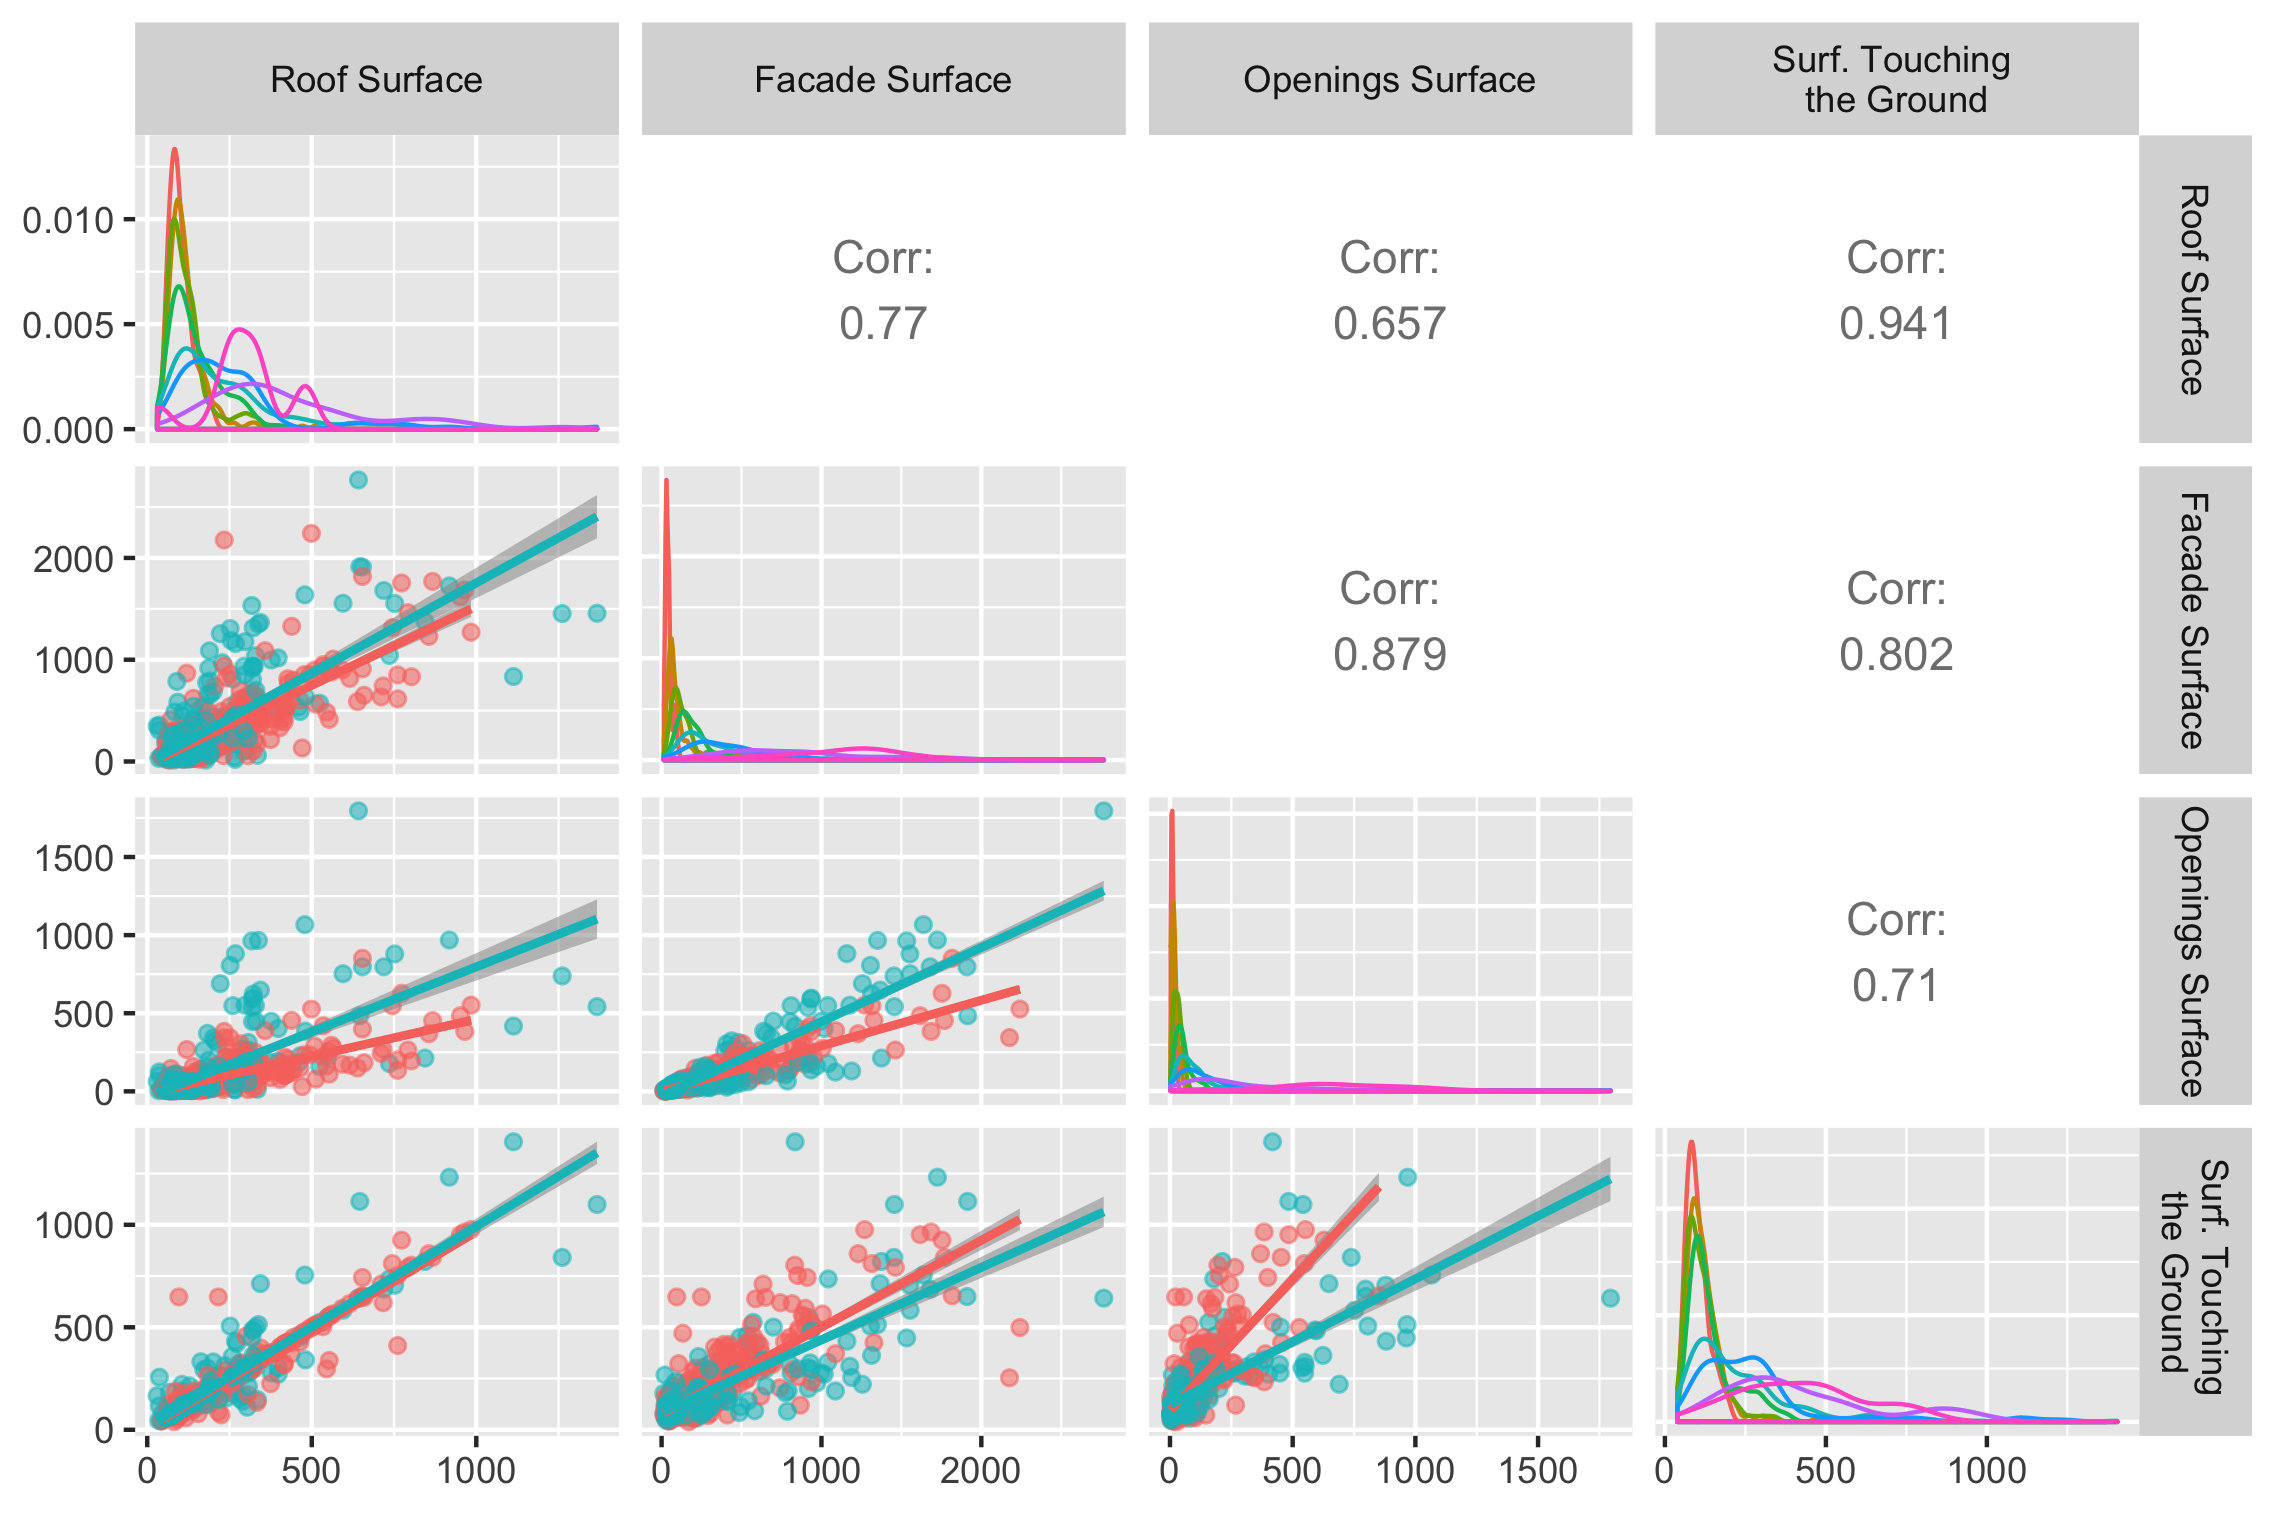
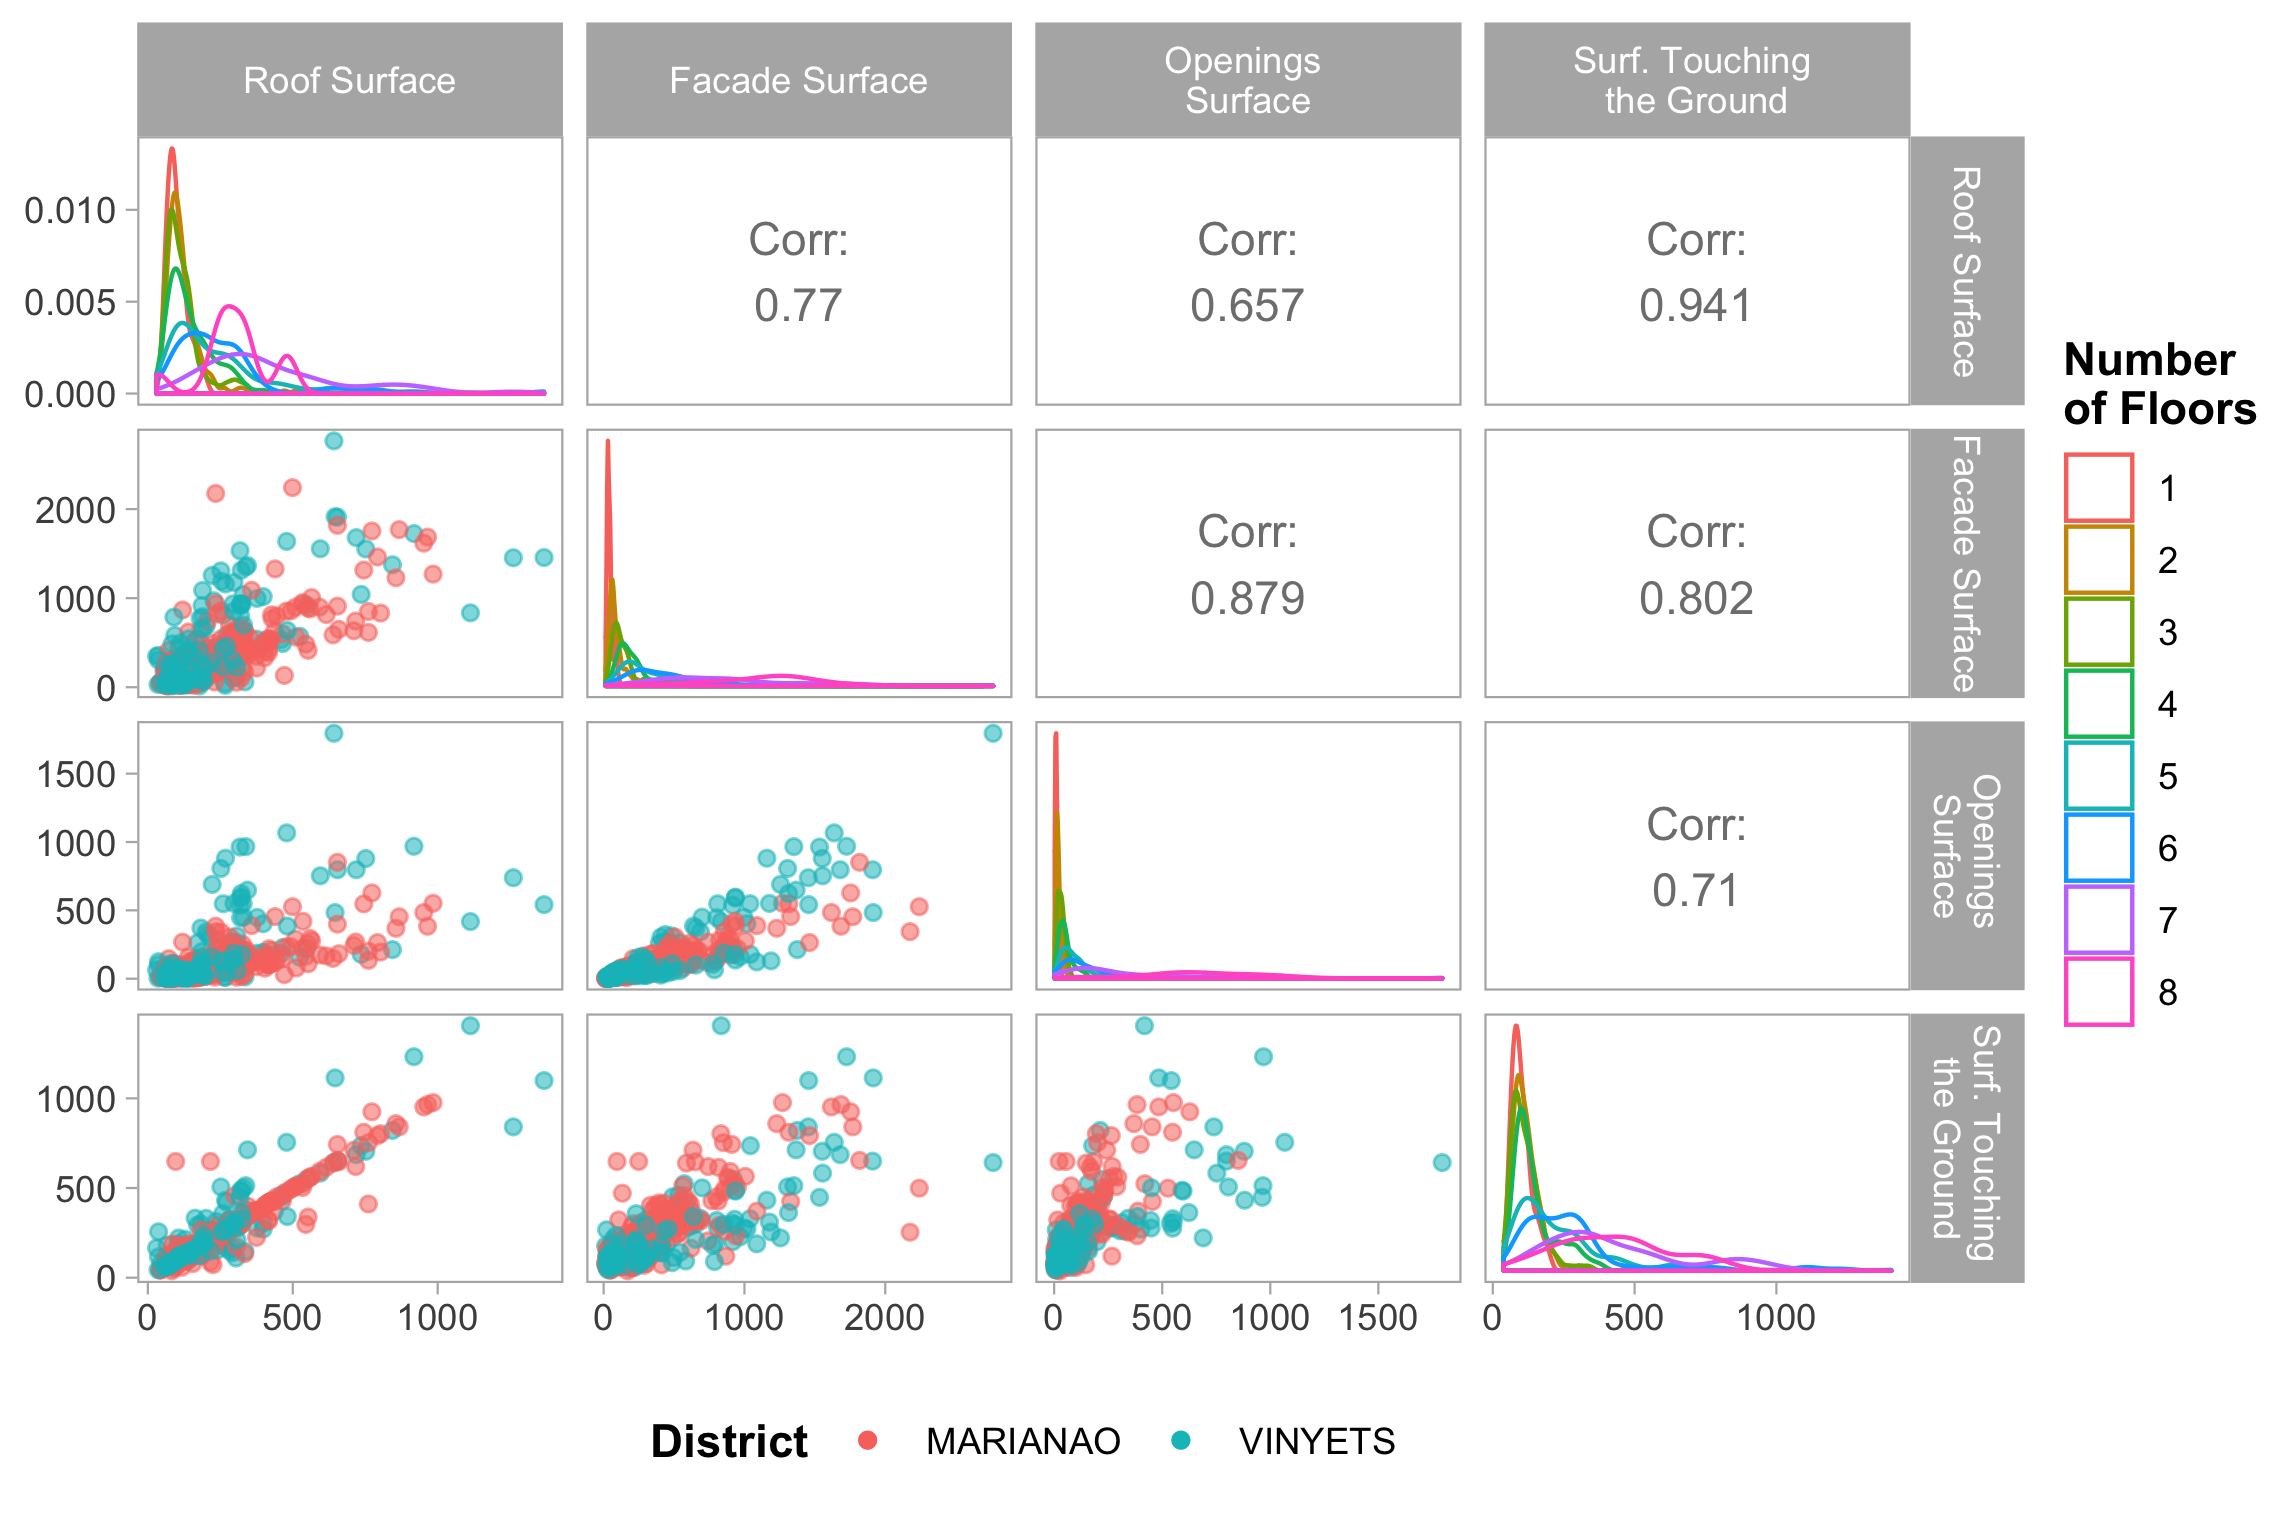
Added the continuous variables to the analysis

diff --git a/README.md b/README.md
@@ -8,7 +8,7 @@
 * [Case of Study](#case-of-study)
    * [Sant Boi de Llobregat](#sant-boi-de-llobregat)
    * [Overall aim of the Study](#overall-aim-of-the-study)
-* [Exploratory Data Analysis (EDA) - Univariate Analysis](#exploratory-data-analysis-eda---univariate-analysis)
+* [Exploratory Data Analysis (EDA) - Discrete Variables](#exploratory-data-analysis-eda---discrete-variables)
    * [District](#district)
    * [Decade](#decade)
    * [Orientation of Buildings](#orientation-of-buildings)
@@ -19,6 +19,7 @@
    * [Types of Roofs](#types-of-roofs)
    * [Types of facade openings](#types-of-facade-openings)
    * [Types of party walls](#types-of-party-walls)
+* [Exploratory Data Analysis (EDA) - Continuous Variables](#exploratory-data-analysis-eda---continuous-variables)
 
 ## Introduction
 
@@ -69,7 +70,7 @@ The two possible ways to address this problem are the following:
 
 These are items to be taken into account to make a good EDA.
 
-## Exploratory Data Analysis (EDA) - Univariate Analysis
+## Exploratory Data Analysis (EDA) - Discrete Variables
 
 ### District
 
@@ -232,8 +233,21 @@ Repeatedly here we describe the transmittance of the party wall with several cat
 * M2: Protected party wall
 * M3: Others
 
-### Continuous variables
+## Exploratory Data Analysis (EDA) - Continuous Variables
+
+The variables represented in the next multivariate plot (credits for [Barret Schloerke](https://github.com/ggobi/ggally/issues/139#issuecomment-176271618) and ) are the following:
+
+* Roof Surface
+* Facade Surface
+* Openings Surface
+* Surface Touching the Ground
 
 <p align="center">
   <img width="640" height="420" src="images/continuas.png">
 </p>
+
+As we can see, buildings with similar number of heights present similar physical characteristics.
+
+When we distinguish buildings by district there are not clear differences, except that buildings in Marianao may be slightly larger.
+
+All the information gathered here was taken into account in order to reach the aim of the study developed for the Sant Boi de Llobregat City Council.
